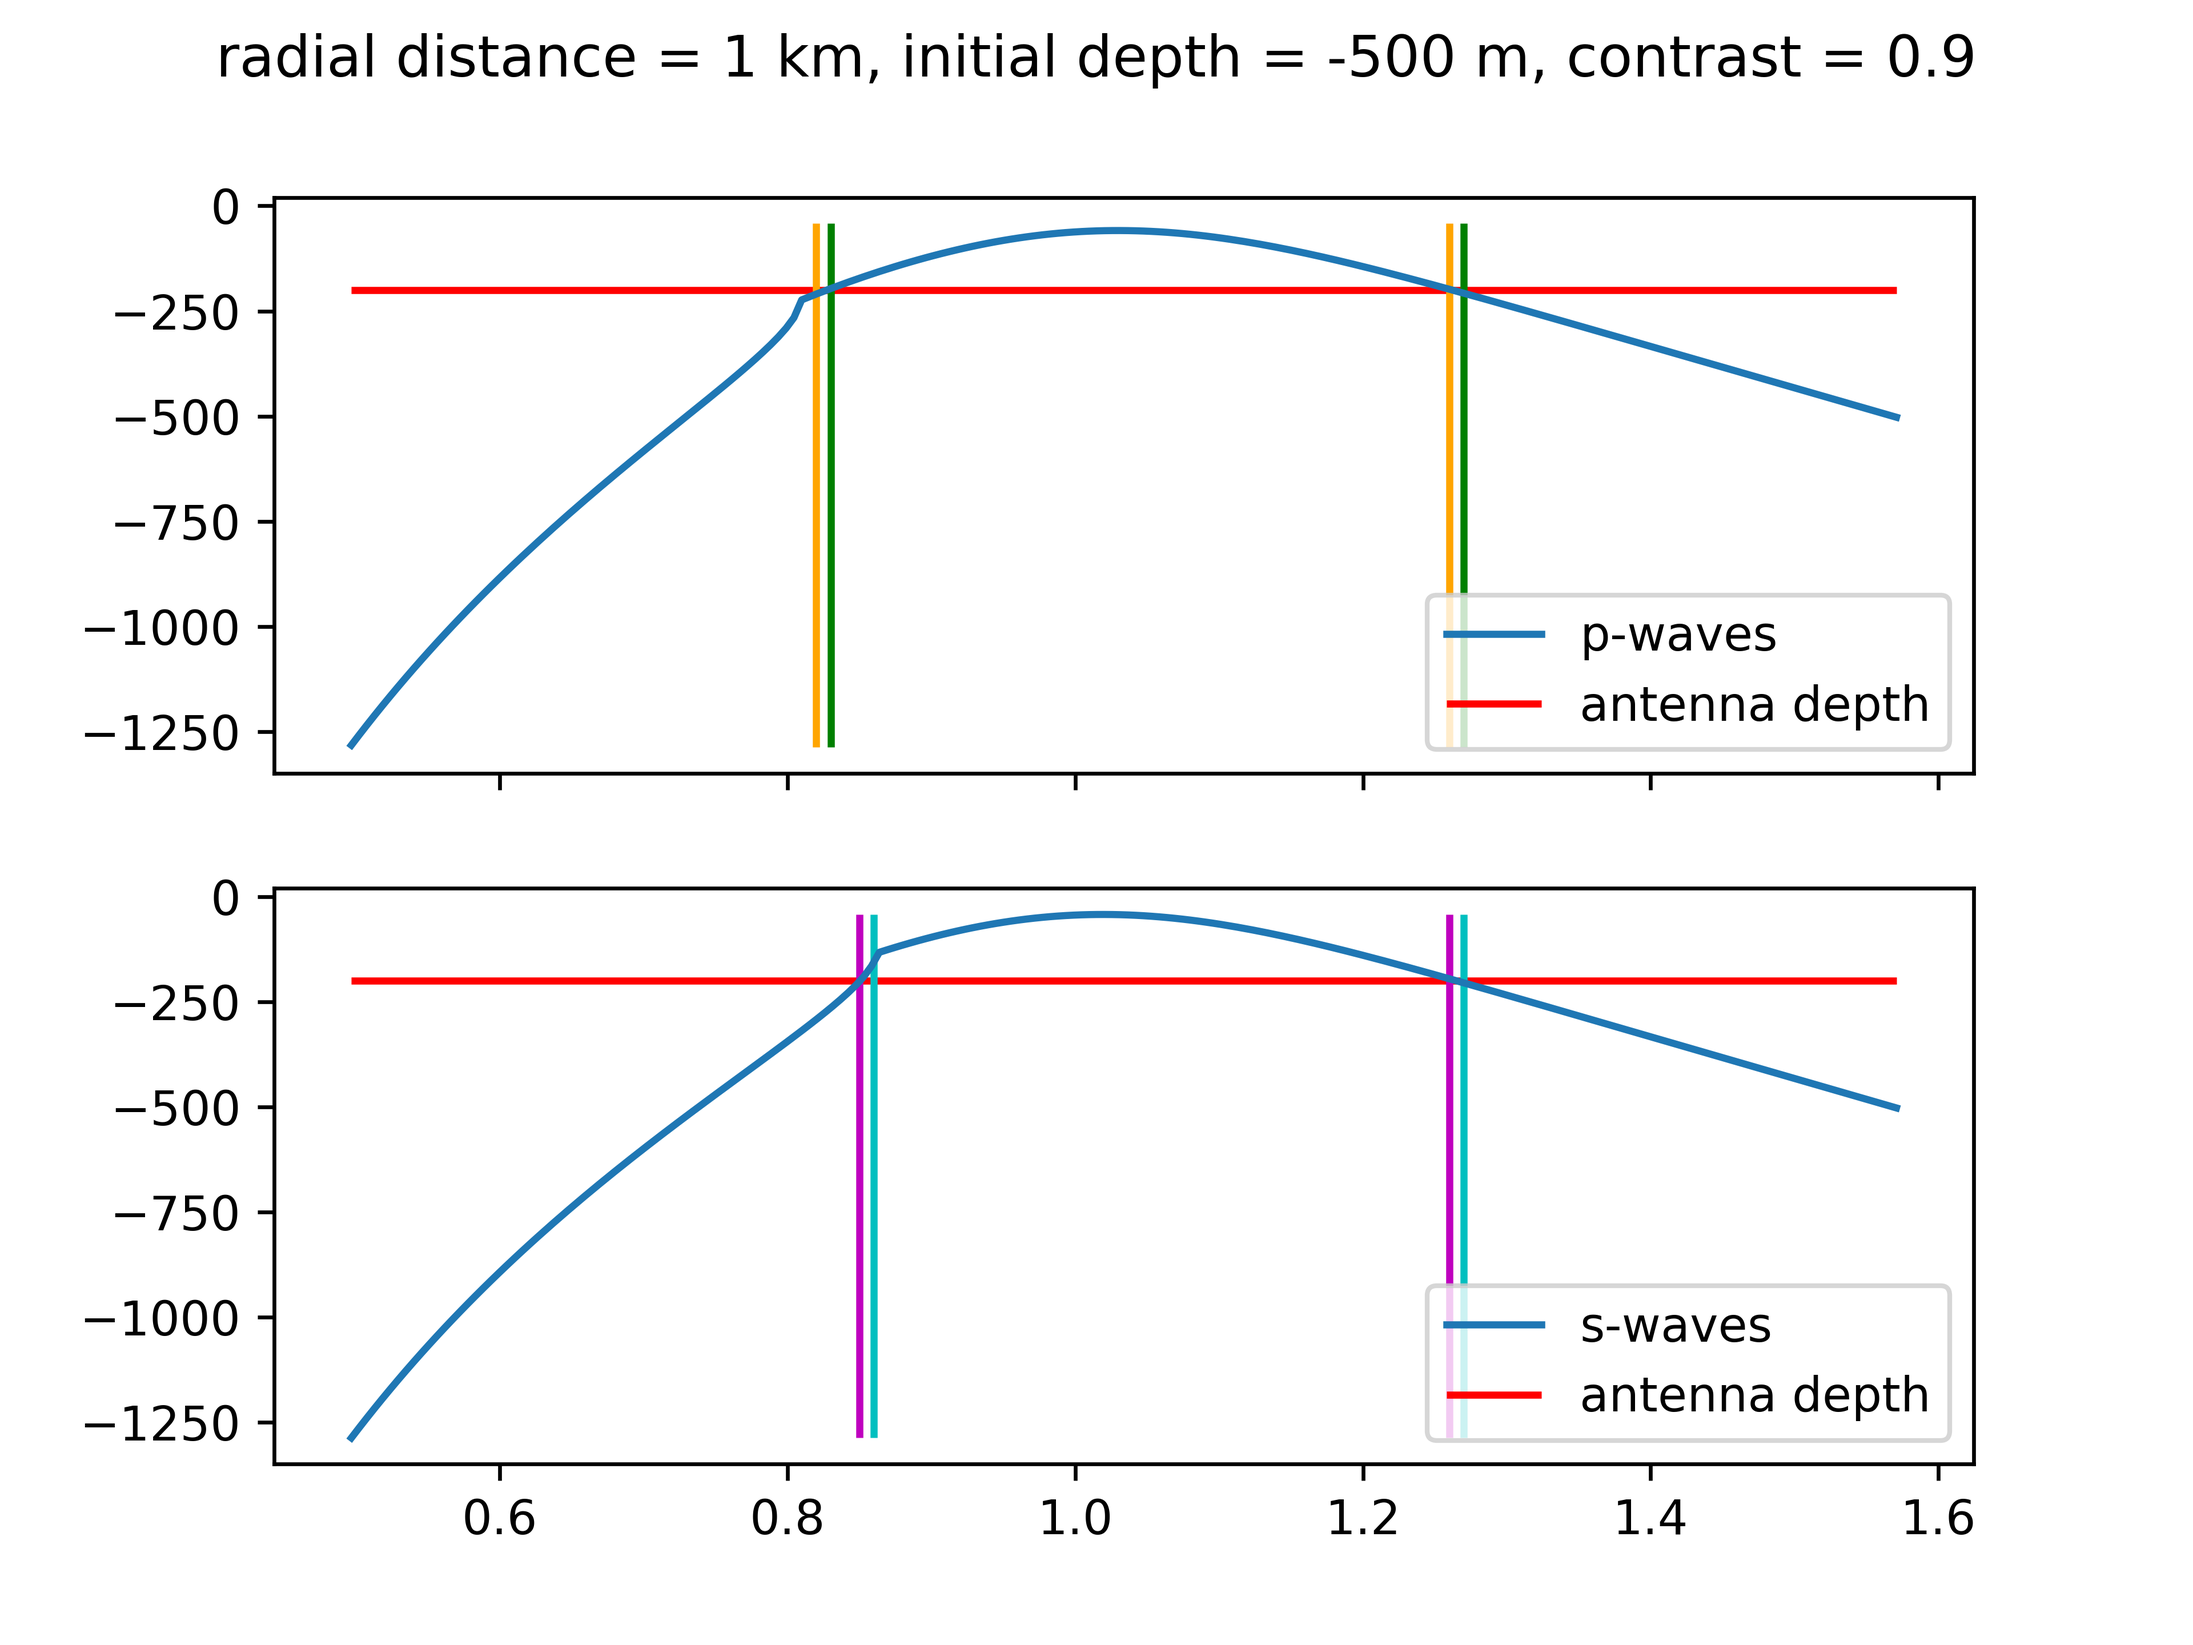
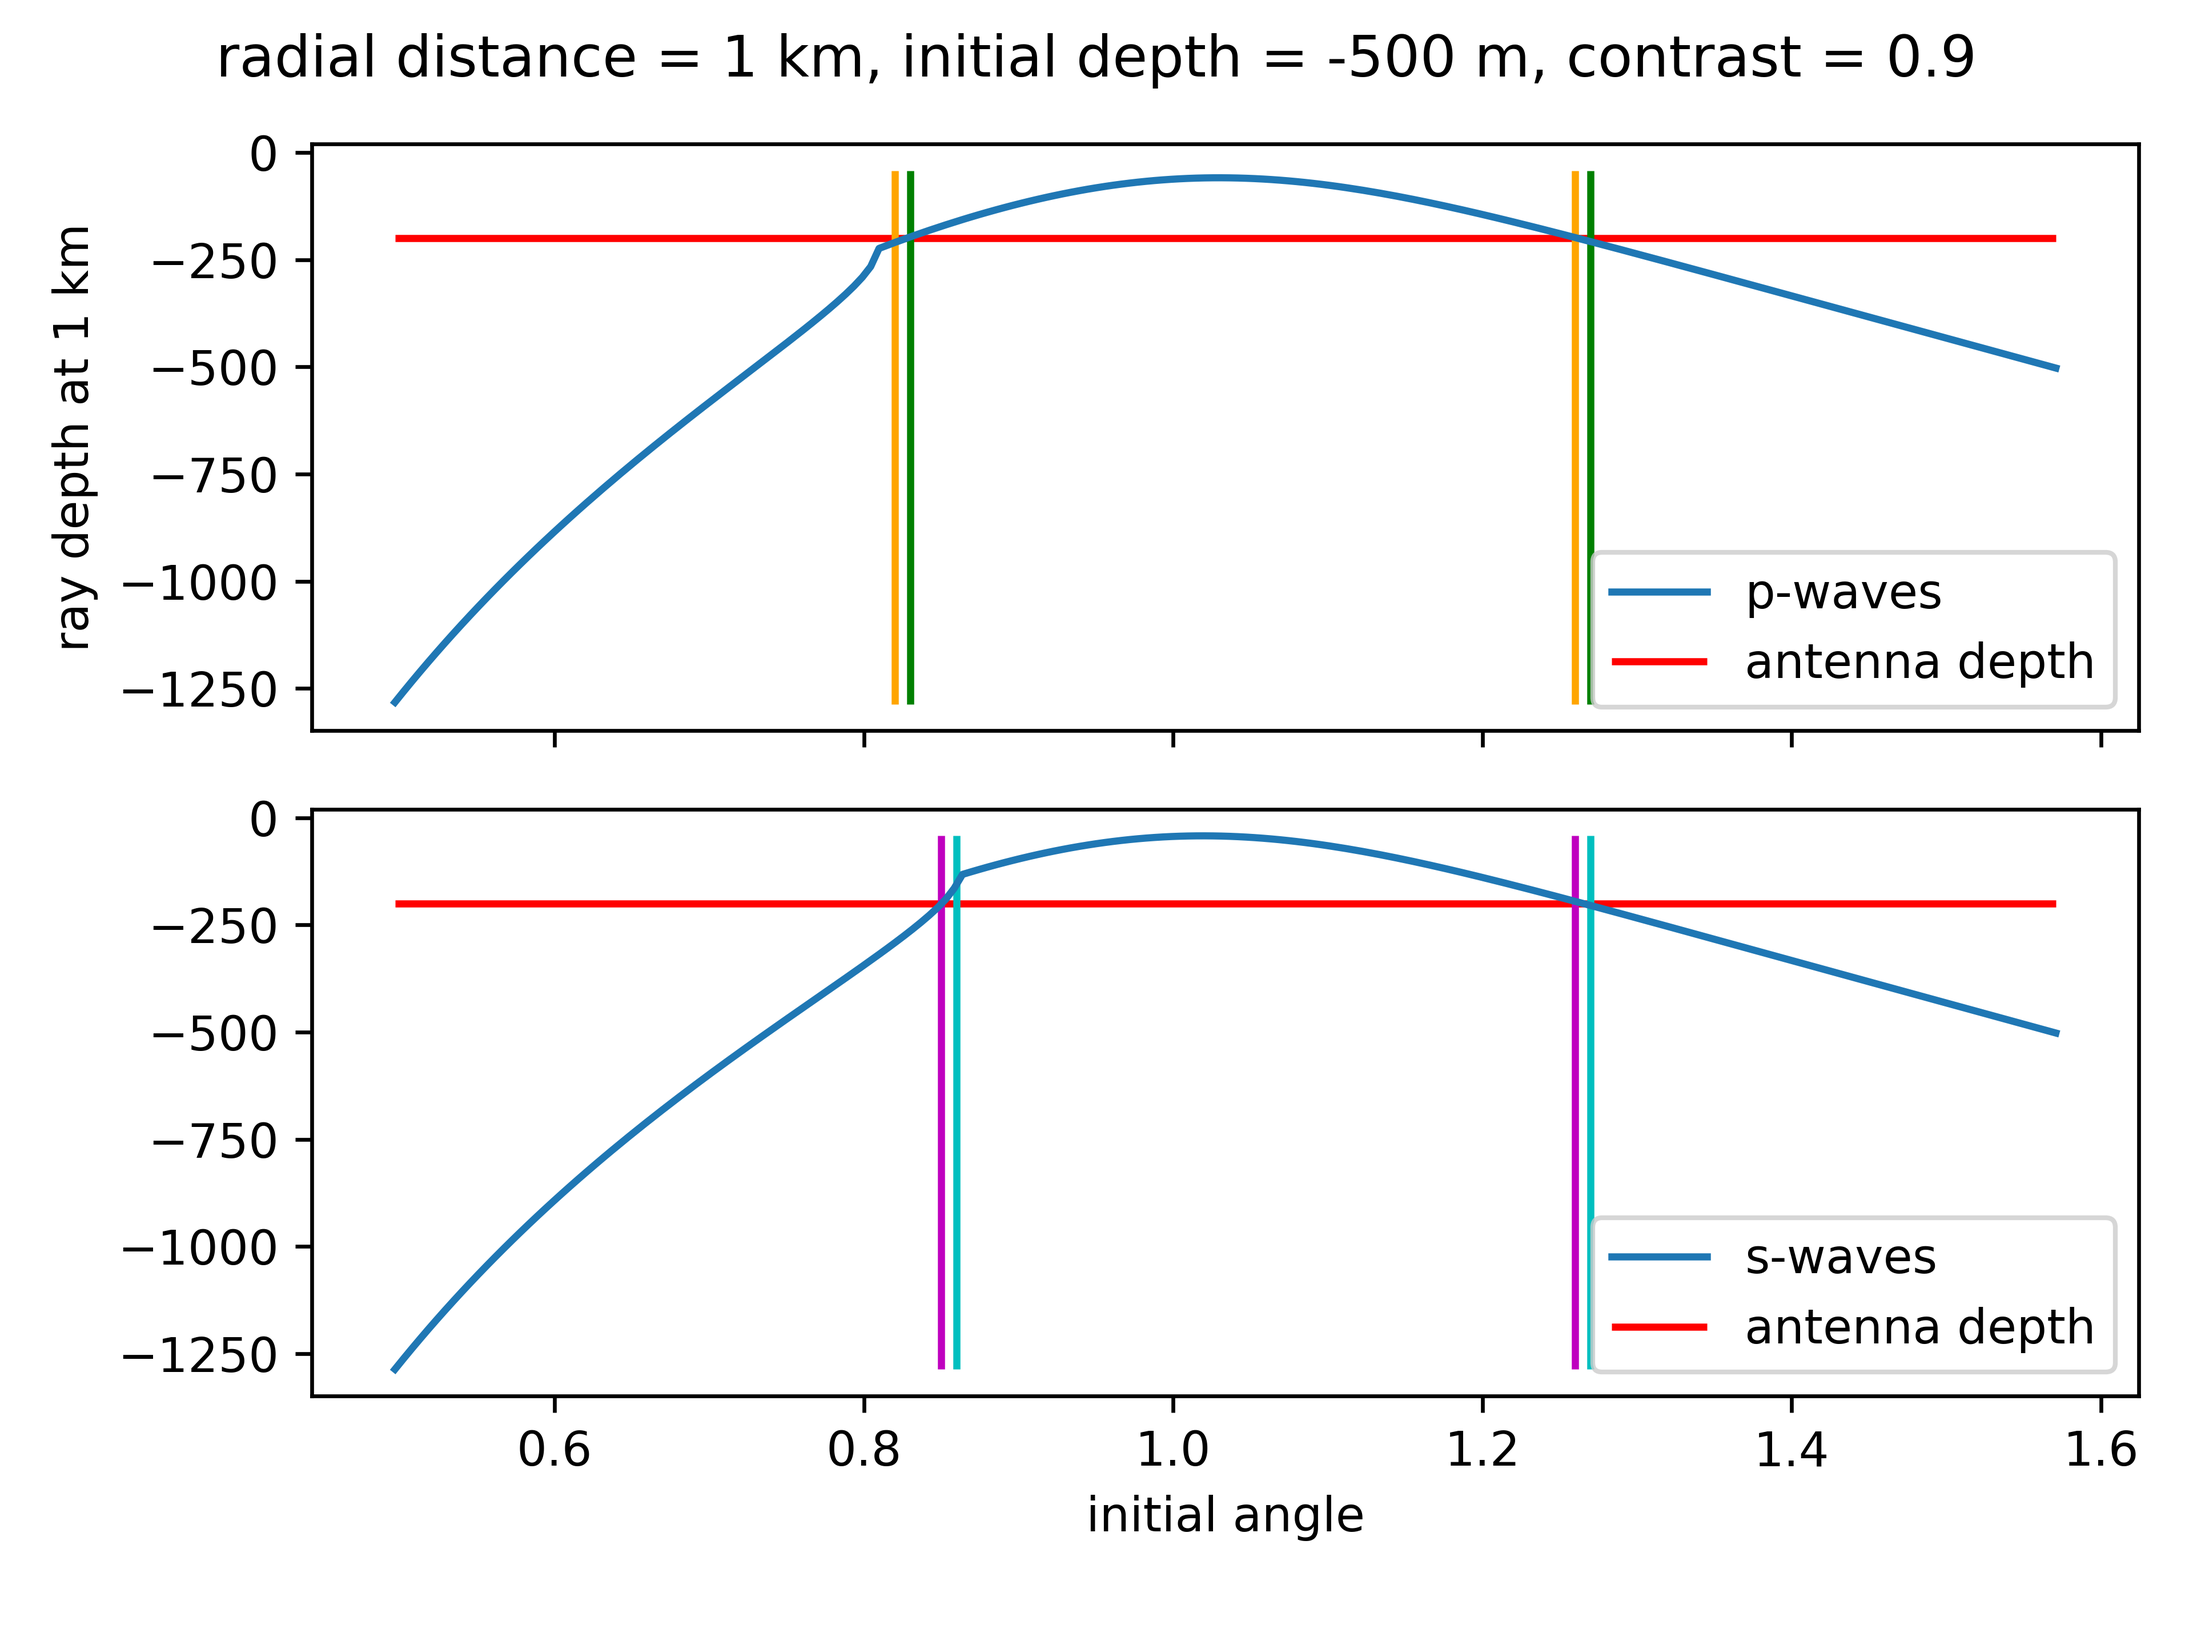
plots and fixed shoot_ray

diff --git a/polarization/snell_sweep_tests.py b/polarization/snell_sweep_tests.py
@@ -10,7 +10,7 @@ from scipy.constants import speed_of_light
 import snell_fns as sf
 
 rmax = 1000
-z0 = -500
+z0 = -1400
 zm = -200
 dr = 10
 dz = 10
@@ -30,7 +30,7 @@ def sguess(z0):
 def guess(z0):
     return min(np.arctan(sf.cont/np.sqrt(sf.cont**2*sf.ns(z0)**2 - 1)), np.pi/2-np.arctan((-zm-z0)/rmax), np.arcsin(1/sf.ns(z0)))
 
-angs = np.linspace(np.arcsin(1/sf.ns(z0))-0.1, np.pi/2, num=200)
+angs = np.linspace(np.arcsin(1/sf.ns(z0))-0.1, np.pi/2, num=20)
 depths = np.linspace(-100, -2000, num=5)
 zp = np.zeros(len(angs))
 zs = np.zeros(len(angs))
@@ -53,18 +53,16 @@ for i in range(len(angs)):
 
 ax1.set_xlabel('radial distance [m]')
 ax1.set_ylabel('depth [m]')
-fig1.suptitle('p waves')
-ax1.set_title('radial distance = 1 km, initial depth = '+str(z0)+' m, contrast = ' + str(sf.cont))
+ax1.set_title('p-waves\nradial distance = 1 km, initial depth = '+str(z0)+' m, contrast = ' + str(sf.cont))
 fig1.tight_layout()
 fig1.savefig('p-raysweep'+str(z0)+'_'+str(sf.cont).replace('.','')+'.png', dpi = 600)
 
 ax2.set_xlabel('radial distance')
 ax2.set_ylabel('depth [m]')
-fig2.suptitle('s waves')
-ax2.set_title('radial distance = 1 km, initial depth = '+str(z0)+' m, contrast = ' + str(sf.cont))
+ax2.set_title('s-waves\nradial distance = 1 km, initial depth = '+str(z0)+' m, contrast = ' + str(sf.cont))
 fig2.tight_layout()
-fig1.savefig('p-raysweep'+str(z0)+'_'+str(sf.cont).replace('.','')+'.png', dpi = 600)
-
+fig2.savefig('s-raysweep'+str(z0)+'_'+str(sf.cont).replace('.','')+'.png', dpi = 600)
+'''
 # theta vs final depth plot
 fig, (ax1, ax2) = plt.subplots(nrows=2, ncols=1, sharex=True, sharey=True)
 
@@ -76,7 +74,10 @@ print('npp',sf.npp(np.arctan(sf.cont/np.sqrt(sf.cont**2*sf.ns(z0)**2 - 1)), z0))
 
 fig.suptitle('radial distance = 1 km, initial depth = '+str(z0)+' m, contrast = ' + str(sf.cont))
 ax1.legend()
+ax1.set_ylabel('ray depth at 1 km')
+ax2.set_xlabel('initial angle')
 ax2.legend()
+
 #plt.show()
 #plt.savefig(str(z0)+'m_depthsvtheta.png', dpi=600)
 
@@ -85,7 +86,7 @@ ax2.legend()
 print('done 1st plot')
 print('p1 bounds')
 p1lb, p1rb = sf.get_bounds_1guess(0.1, sf.podes, rmax, z0, zm, dr)
-print(sf.shoot_ray(sf.podes, sf.hit_top, 0, rmax, p1lb, z0, dr).y[1,-1], sf.shoot_ray(sf.podes, sf.hit_top, 0, rmax, p1rb, z0, dr).y[1,-1], sf.shoot_ray(sf.podes, sf.hit_top, 0, rmax, (p1rb+p1lb)/2, z0, dr).y[1,-1])
+#print(sf.shoot_ray(sf.podes, sf.hit_top, 0, rmax, p1lb, z0, dr).y[1,-1], sf.shoot_ray(sf.podes, sf.hit_top, 0, rmax, p1rb, z0, dr).y[1,-1], sf.shoot_ray(sf.podes, sf.hit_top, 0, rmax, (p1rb+p1lb)/2, z0, dr).y[1,-1])
 print('p2 bounds')
 if p1rb is not None:
     p2lb, p2rb = sf.get_bounds_1guess(p1rb, sf.podes, rmax, z0, zm, dr)
@@ -113,6 +114,7 @@ if s2lb is not None and s2rb is not None:
     ax2.vlines(s2rb, min(min(zp), min(zs)), max(max(zp), max(zs)), colors='c')
 
 
-#fig.tight_layout()
+fig.tight_layout(rect=[0, 0.03, 1, 0.95])
 #plt.show()
 fig.savefig('rootexample'+str(z0)+'_'+str(sf.cont).replace('.','')+'.png', dpi = 600)
+'''
